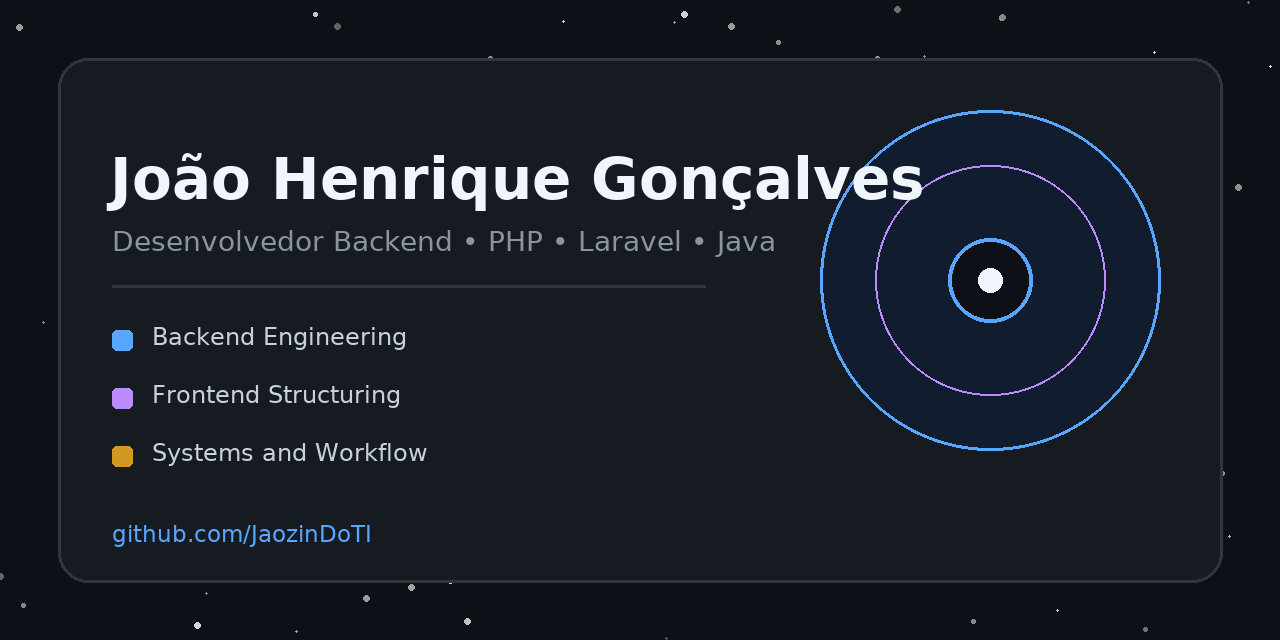
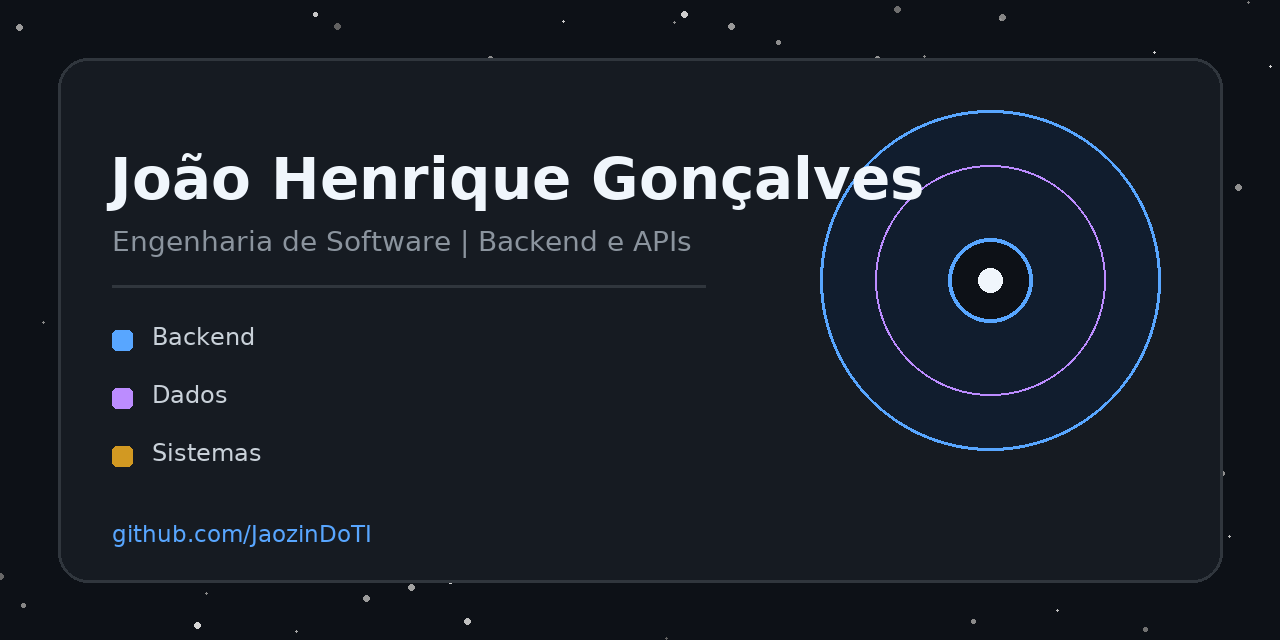
Align profile visuals with software engineering focus

diff --git a/generator/templates/impact_card.py b/generator/templates/impact_card.py
@@ -1,4 +1,4 @@
-"""Recruiter-facing proof of operational, automation, scale and quality impact."""
+"""Recruiter-facing proof of processing, scale and quality impact."""
 
 from generator.templates.cosmic_background import render as render_cosmic_background
 from generator.utils import esc
@@ -11,9 +11,9 @@ def _metric(items: list, index: int, fallback: dict) -> dict:
 
 
 def render(items: list, theme: dict) -> str:
-    business = _metric(items, 0, {"value": "~4K", "label": "RECORDS VALIDATED", "detail": "records evaluated per run"})
-    automation = _metric(items, 1, {"value": "~99.997%", "label": "PROCESSING TIME REDUCTION", "detail": "~192h → ~24s · ~28,800× faster"})
-    scale = _metric(items, 2, {"value": "~24s", "label": "AUTOMATED ANALYSIS", "detail": "~4K records • 108 fields • ~53 business rules"})
+    volume = _metric(items, 0, {"value": "~4K", "label": "RECORDS VALIDATED", "detail": "records evaluated per run"})
+    processing = _metric(items, 1, {"value": "~99.997%", "label": "PROCESSING TIME REDUCTION", "detail": "~192h → ~24s · ~28,800× faster"})
+    scale = _metric(items, 2, {"value": "~24s", "label": "DATA VALIDATION", "detail": "~4K records • 108 fields • ~53 business rules"})
     quality = _metric(items, 3, {"value": "+3.03%", "label": "MORE ISSUES DETECTED", "detail": "higher analysis effectiveness"})
     cyan, violet, amber = theme["synapse_cyan"], theme["dendrite_violet"], theme["axon_amber"]
     cosmic = render_cosmic_background("impact-proof", WIDTH, HEIGHT, theme, preset="card")
@@ -22,7 +22,7 @@ def render(items: list, theme: dict) -> str:
   <defs>
 {cosmic.defs}
     <radialGradient id="value-halo"><stop stop-color="{cyan}" stop-opacity=".20"/><stop offset="1" stop-color="{cyan}" stop-opacity="0"/></radialGradient>
-    <linearGradient id="automation-bar" x1="0" y1="0" x2="1" y2="0"><stop stop-color="{violet}" stop-opacity=".12"/><stop offset="1" stop-color="{cyan}" stop-opacity=".035"/></linearGradient>
+    <linearGradient id="processing-bar" x1="0" y1="0" x2="1" y2="0"><stop stop-color="{violet}" stop-opacity=".12"/><stop offset="1" stop-color="{cyan}" stop-opacity=".035"/></linearGradient>
     <style>
       .impact-enter {{ opacity:0; animation:impact-enter .8s ease-out var(--impact-delay,0s) forwards; }}
       .impact-breathe {{ animation:impact-breathe 5s ease-in-out infinite; transform-box:fill-box; transform-origin:center; }}
@@ -37,7 +37,7 @@ def render(items: list, theme: dict) -> str:
   <g data-svg-layer="content">
     <line x1="425" y1="0" x2="425" y2="17" stroke="{cyan}" opacity=".42"/>
     <text x="35" y="36" fill="{theme['text_faint']}" font-size="10" font-family="monospace" letter-spacing="3">PROOF OF IMPACT</text>
-    <text x="815" y="36" text-anchor="end" fill="{theme['text_faint']}" font-size="8" font-family="monospace">SOFTWARE ENGINEERING • AUTOMATION • DATA</text>
+    <text x="815" y="36" text-anchor="end" fill="{theme['text_faint']}" font-size="8" font-family="monospace">SOFTWARE ENGINEERING • PERFORMANCE • DATA QUALITY</text>
     <line x1="35" y1="52" x2="815" y2="52" stroke="{theme['star_dust']}" opacity=".5"/>
 
     <g class="impact-enter" style="--impact-delay:.08s">
@@ -45,7 +45,7 @@ def render(items: list, theme: dict) -> str:
       <circle cx="188" cy="169" r="91" fill="url(#value-halo)" class="impact-breathe"/>
       <circle cx="188" cy="169" r="68" fill="none" stroke="{cyan}" stroke-width=".8" stroke-dasharray="3 9" opacity=".36" class="impact-orbit"/>
       <text x="58" y="94" fill="{cyan}" font-size="8" font-weight="bold" font-family="monospace" letter-spacing="1.2">PRODUCTION DATA VALIDATION</text>
-      <text x="177" y="158" text-anchor="middle" fill="{theme['text_bright']}" font-size="39" font-weight="bold" font-family="sans-serif">{esc(business['value'])}</text>
+      <text x="177" y="158" text-anchor="middle" fill="{theme['text_bright']}" font-size="39" font-weight="bold" font-family="sans-serif">{esc(volume['value'])}</text>
       <text x="177" y="183" text-anchor="middle" fill="{cyan}" font-size="9" font-weight="bold" font-family="monospace">RECORDS</text>
       <text x="177" y="199" text-anchor="middle" fill="{cyan}" font-size="9" font-weight="bold" font-family="monospace">VALIDATED</text>
       <text x="177" y="235" text-anchor="middle" fill="{theme['text_dim']}" font-size="9" font-family="sans-serif">108 fields evaluated per record</text>
@@ -53,9 +53,9 @@ def render(items: list, theme: dict) -> str:
     </g>
 
     <g class="impact-enter" style="--impact-delay:.20s">
-      <rect x="340" y="70" width="475" height="91" rx="14" fill="url(#automation-bar)" stroke="{violet}" stroke-opacity=".30"/>
-      <text x="365" y="92" fill="{violet}" font-size="8" font-weight="bold" font-family="monospace" letter-spacing="1">AUTOMATION</text>
-      <text x="365" y="132" fill="{theme['text_bright']}" font-size="29" font-weight="bold" font-family="sans-serif">{esc(automation['value'])}</text>
+      <rect x="340" y="70" width="475" height="91" rx="14" fill="url(#processing-bar)" stroke="{violet}" stroke-opacity=".30"/>
+      <text x="365" y="92" fill="{violet}" font-size="8" font-weight="bold" font-family="monospace" letter-spacing="1">PERFORMANCE</text>
+      <text x="365" y="132" fill="{theme['text_bright']}" font-size="29" font-weight="bold" font-family="sans-serif">{esc(processing['value'])}</text>
       <text x="365" y="149" fill="{violet}" font-size="8" font-weight="bold" font-family="monospace">PROCESSING TIME REDUCTION</text>
       <line x1="535" y1="86" x2="535" y2="145" stroke="{theme['star_dust']}"/>
       <text x="560" y="111" fill="{theme['text_bright']}" font-size="17" font-weight="bold" font-family="sans-serif">~192 HOURS → ~24 SECONDS</text>
@@ -66,7 +66,7 @@ def render(items: list, theme: dict) -> str:
       <rect x="340" y="176" width="294" height="96" rx="14" fill="{theme['void']}" stroke="{amber}" stroke-opacity=".28"/>
       <text x="365" y="199" fill="{amber}" font-size="8" font-weight="bold" font-family="monospace" letter-spacing="1">SCALE + COMPLEXITY</text>
       <text x="365" y="239" fill="{theme['text_bright']}" font-size="31" font-weight="bold" font-family="sans-serif">{esc(scale['value'])}</text>
-      <text x="452" y="222" fill="{amber}" font-size="9" font-weight="bold" font-family="monospace">AUTOMATED ANALYSIS</text>
+      <text x="452" y="222" fill="{amber}" font-size="9" font-weight="bold" font-family="monospace">DATA VALIDATION</text>
       <text x="452" y="240" fill="{theme['text_dim']}" font-size="10" font-family="monospace">~4K RECORDS • 108 FIELDS</text>
       <text x="452" y="257" fill="{theme['text_dim']}" font-size="10" font-family="monospace">~53 BUSINESS RULES / ANALYSIS</text>
     </g>

diff --git a/generator/templates/galaxy_header.py b/generator/templates/galaxy_header.py
@@ -19,7 +19,6 @@ def _node(x: int, y: int, label: str, color: str, delay: float, anchor: str = "m
 def render(config: dict, theme: dict, galaxy_arms: list, projects: list) -> str:
     profile = config.get("profile", {})
     name = profile.get("name", config.get("username", "Developer"))
-    tagline = profile.get("tagline", "Backend Developer | Data & Automation")
     cosmic = render_cosmic_background(config.get("username", "profile"), WIDTH, HEIGHT, theme, preset="hero")
     cyan = theme["synapse_cyan"]
     violet = theme["dendrite_violet"]
@@ -102,25 +101,25 @@ def render(config: dict, theme: dict, galaxy_arms: list, projects: list) -> str:
       <rect x="145" y="106" width="44" height="2" rx="1" fill="{violet}" opacity="0.75"/>
     </g>
     <g class="hero-reveal" style="--hero-delay:.3s">
-      <text x="48" y="139" fill="{theme['text_dim']}" font-size="14" font-family="sans-serif">Building production systems with backend, data and automation.</text>
+      <text x="48" y="139" fill="{theme['text_dim']}" font-size="14" font-family="sans-serif">Backend systems for state public administration.</text>
       <text x="48" y="160" fill="{theme['text_faint']}" font-size="11" font-family="monospace">TypeScript • Node.js • Fastify • SQL • PostgreSQL • REST APIs</text>
     </g>
     <g class="hero-reveal" style="--hero-delay:.42s">
       <rect x="48" y="190" width="146" height="29" rx="14" fill="{cyan}" opacity="0.09" stroke="{cyan}" stroke-opacity="0.32"/>
-      <text x="121" y="208" text-anchor="middle" fill="{cyan}" font-size="9" font-weight="bold" font-family="monospace">PRODUCTION SYSTEMS</text>
+      <text x="121" y="208" text-anchor="middle" fill="{cyan}" font-size="9" font-weight="bold" font-family="monospace">SOFTWARE ENGINEERING</text>
       <rect x="204" y="190" width="138" height="29" rx="14" fill="{violet}" opacity="0.08" stroke="{violet}" stroke-opacity="0.28"/>
-      <text x="273" y="208" text-anchor="middle" fill="{violet}" font-size="9" font-weight="bold" font-family="monospace">DATA-INTENSIVE</text>
+      <text x="273" y="208" text-anchor="middle" fill="{violet}" font-size="9" font-weight="bold" font-family="monospace">ARCHITECTURE</text>
       <rect x="352" y="190" width="112" height="29" rx="14" fill="{amber}" opacity="0.08" stroke="{amber}" stroke-opacity="0.28"/>
-      <text x="408" y="208" text-anchor="middle" fill="{amber}" font-size="9" font-weight="bold" font-family="monospace">AUTOMATION</text>
+      <text x="408" y="208" text-anchor="middle" fill="{amber}" font-size="9" font-weight="bold" font-family="monospace">API INTEGRATION</text>
     </g>
     <g class="hero-reveal" style="--hero-delay:.55s">
       <text x="48" y="264" fill="{theme['text_bright']}" font-size="21" font-weight="bold" font-family="sans-serif">~192h → ~24s</text>
-      <text x="48" y="282" fill="{cyan}" font-size="9" font-family="monospace" letter-spacing="1.1">AUTOMATED PROCESSING</text>
+      <text x="48" y="282" fill="{cyan}" font-size="9" font-family="monospace" letter-spacing="1.1">PROCESSING TIME</text>
       <line x1="205" y1="250" x2="205" y2="286" stroke="{theme['star_dust']}"/>
       <text x="230" y="264" fill="{theme['text_bright']}" font-size="21" font-weight="bold" font-family="sans-serif">~4K</text>
       <text x="230" y="282" fill="{violet}" font-size="8" font-family="monospace" letter-spacing="1">RECORDS VALIDATED</text>
     </g>
-    <text x="48" y="320" fill="{theme['text_faint']}" font-size="8" font-family="monospace" letter-spacing="1.5">FLORIANÓPOLIS, BRAZIL  //  SYSTEMS • DATA • AUTOMATION</text>
+    <text x="48" y="320" fill="{theme['text_faint']}" font-size="8" font-family="monospace" letter-spacing="1.5">FLORIANÓPOLIS, BRAZIL  //  BACKEND • APIS • DATA</text>
     <line x1="425" y1="326" x2="425" y2="340" stroke="{cyan}" opacity="0.45"/>
     <circle cx="425" cy="326" r="2" fill="{cyan}" opacity="0.8"/>
   </g>

diff --git a/generator/templates/case_study.py b/generator/templates/case_study.py
@@ -1,4 +1,4 @@
-"""Production case: from manual operations to automated software."""
+"""Production case: traceable validation of complex data."""
 
 from generator.templates.cosmic_background import render as render_cosmic_background
 from generator.utils import esc
@@ -34,7 +34,7 @@ def render(config: dict, theme: dict) -> str:
 
     <g>
       <text x="70" y="91" fill="{amber}" font-size="9" font-weight="bold" font-family="monospace" letter-spacing="1">{esc(config.get('problem_title', 'PROBLEM'))}</text>
-      <text x="70" y="119" fill="{theme['text_bright']}" font-size="15" font-weight="bold" font-family="sans-serif">Manual analysis</text>
+      <text x="70" y="119" fill="{theme['text_bright']}" font-size="15" font-weight="bold" font-family="sans-serif">Data validation</text>
       <text x="70" y="140" fill="{theme['text_dim']}" font-size="11" font-family="sans-serif">High data volume</text>
       <text x="70" y="158" fill="{theme['text_dim']}" font-size="11" font-family="sans-serif">Complex business rules</text>
       <text x="70" y="176" fill="{theme['text_dim']}" font-size="11" font-family="sans-serif">Repetitive validation</text>
@@ -62,14 +62,14 @@ def render(config: dict, theme: dict) -> str:
       <rect x="583" y="76" width="210" height="118" rx="12" fill="{cyan}" opacity="0.035" stroke="{cyan}" stroke-opacity="0.24"/>
       <text x="603" y="91" fill="{cyan}" font-size="9" font-weight="bold" font-family="monospace" letter-spacing="1">{esc(config.get('outcome_title', 'OUTCOME'))}</text>
       <text x="603" y="119" fill="{theme['text_bright']}" font-size="15" font-weight="bold" font-family="sans-serif">Production software</text>
-      <text x="603" y="140" fill="{theme['text_dim']}" font-size="11" font-family="sans-serif">Automated workflow</text>
+      <text x="603" y="140" fill="{theme['text_dim']}" font-size="11" font-family="sans-serif">Batch processing</text>
       <text x="603" y="158" fill="{theme['text_dim']}" font-size="11" font-family="sans-serif">Traceable execution</text>
       <text x="603" y="176" fill="{theme['text_dim']}" font-size="11" font-family="sans-serif">Consistent results</text>
     </g>
 
     <rect x="57" y="211" width="736" height="34" rx="17" fill="{theme['void']}" stroke="{theme['star_dust']}"/>
     <text x="77" y="232" fill="{violet}" font-size="8" font-weight="bold" font-family="monospace">TECHNICAL OWNERSHIP</text>
-    <text x="220" y="232" fill="{theme['text_dim']}" font-size="9" font-family="monospace">ARCHITECTURE • BACKEND • DATA • INTEGRATIONS • AUTOMATION</text>
+    <text x="220" y="232" fill="{theme['text_dim']}" font-size="9" font-family="monospace">ARCHITECTURE • BACKEND • DATA • INTEGRATIONS</text>
     <line x1="425" y1="253" x2="425" y2="270" stroke="{violet}" opacity="0.4"/>
   </g>
 </svg>"""

diff --git a/generator/templates/projects_constellation.py b/generator/templates/projects_constellation.py
@@ -64,7 +64,7 @@ def render(projects: list, galaxy_arms: list, theme: dict) -> str:
     <g class="product-enter" style="--product-delay:.12s">
       <rect x="35" y="70" width="500" height="210" rx="14" fill="url(#featured-glow)" stroke="{featured_color}" stroke-opacity="0.38"/>
       <rect x="35" y="70" width="5" height="210" rx="2" fill="{featured_color}" opacity="0.55"/>
-      <text x="65" y="97" fill="{featured_color}" font-size="8" font-weight="bold" font-family="monospace" letter-spacing="1.5">FLAGSHIP • PRODUCTION AUTOMATION</text>
+      <text x="65" y="97" fill="{featured_color}" font-size="8" font-weight="bold" font-family="monospace" letter-spacing="1.5">FLAGSHIP • PRODUCTION SYSTEM</text>
       <text x="65" y="130" fill="{theme['text_bright']}" font-size="25" font-weight="bold" font-family="sans-serif">{esc(featured_name)}</text>
       <text x="65" y="151" fill="{theme['text_dim']}" font-size="11" font-family="sans-serif">{esc(featured.get('description', ''))}</text>
 

diff --git a/generator/social_preview.py b/generator/social_preview.py
@@ -51,7 +51,7 @@ def render_social_preview(config: dict, output_path: str | Path) -> None:
     draw.ellipse((948, 238, 1032, 322), fill="#0d1117", outline=accent, width=4)
     draw.ellipse((978, 268, 1002, 292), fill="#f0f6fc")
 
-    draw.text((110, 145), name, font=_font(58, bold=True), fill="#f0f6fc")
+    draw.text((110, 145), name, font=_font(48, bold=True), fill="#f0f6fc")
     draw.text((112, 225), tagline, font=_font(28), fill="#8b949e")
     draw.line((112, 286, 705, 286), fill="#30363d", width=3)
 

diff --git a/README.md b/README.md
@@ -1,3 +1,7 @@
+<div align="center">
+  <img src="./assets/generated/galaxy-header-v3.svg" width="850" alt="João Henrique Gonçalves, engenharia de software, arquitetura backend e integração de APIs para a administração pública estadual"/>
+</div>
+
 # João Henrique Gonçalves
 
 **Engenharia de software · Backend · Sistemas para a administração pública estadual**
@@ -10,7 +14,16 @@ Atuo no desenvolvimento de sistemas que integram serviços e aplicam regras de n
 
 ## Projetos
 
+- **Galaxy Profile** — este repositório. O cliente em Python consulta a API do GitHub via GraphQL quando há token e usa REST para coletar métricas públicas. O gerador combina esses dados com a configuração do perfil para produzir os cartões em SVG.
+
 - **PRISMA** — sistema em produção para validar cerca de 4 mil registros em 108 campos, com aproximadamente 53 regras de negócio. O processamento passou de cerca de 192 horas para 24 segundos.
 - **CAMUP** — evolução do backend de um sistema web colaborativo em Laravel, com entrega de funcionalidades, refatoração e melhorias de desempenho. [Repositório do CAMUP](https://github.com/JaozinDoTI/camup-system)
+
+<div align="center">
+  <img src="./assets/generated/impact-card-v3.svg" width="850" alt="PRISMA: cerca de 4 mil registros validados, 108 campos e 53 regras de negócio. Tempo de processamento de 192 horas para 24 segundos."/>
+  <img src="./assets/generated/expertise-card.svg" width="850" alt="Tecnologias de backend, APIs REST e bancos de dados"/>
+  <img src="./assets/generated/case-study.svg" width="850" alt="PRISMA: motor de processamento com validação de dados e execução rastreável"/>
+  <img src="./assets/generated/projects-constellation-v3.svg" width="850" alt="Projetos em destaque: PRISMA e CAMUP"/>
+</div>
 
 Florianópolis, SC · [LinkedIn](https://www.linkedin.com/in/joaohenrique-goncalves/)

diff --git a/README.profile.md b/README.profile.md
@@ -1,3 +1,7 @@
+<div align="center">
+  <img src="./assets/generated/galaxy-header-v3.svg" width="850" alt="João Henrique Gonçalves, engenharia de software, arquitetura backend e integração de APIs para a administração pública estadual"/>
+</div>
+
 # João Henrique Gonçalves
 
 **Engenharia de software · Backend · Sistemas para a administração pública estadual**
@@ -10,7 +14,16 @@ Atuo no desenvolvimento de sistemas que integram serviços e aplicam regras de n
 
 ## Projetos
 
+- **Galaxy Profile** — este repositório. O cliente em Python consulta a API do GitHub via GraphQL quando há token e usa REST para coletar métricas públicas. O gerador combina esses dados com a configuração do perfil para produzir os cartões em SVG.
+
 - **PRISMA** — sistema em produção para validar cerca de 4 mil registros em 108 campos, com aproximadamente 53 regras de negócio. O processamento passou de cerca de 192 horas para 24 segundos.
 - **CAMUP** — evolução do backend de um sistema web colaborativo em Laravel, com entrega de funcionalidades, refatoração e melhorias de desempenho. [Repositório do CAMUP](https://github.com/JaozinDoTI/camup-system)
+
+<div align="center">
+  <img src="./assets/generated/impact-card-v3.svg" width="850" alt="PRISMA: cerca de 4 mil registros validados, 108 campos e 53 regras de negócio. Tempo de processamento de 192 horas para 24 segundos."/>
+  <img src="./assets/generated/expertise-card.svg" width="850" alt="Tecnologias de backend, APIs REST e bancos de dados"/>
+  <img src="./assets/generated/case-study.svg" width="850" alt="PRISMA: motor de processamento com validação de dados e execução rastreável"/>
+  <img src="./assets/generated/projects-constellation-v3.svg" width="850" alt="Projetos em destaque: PRISMA e CAMUP"/>
+</div>
 
 Florianópolis, SC · [LinkedIn](https://www.linkedin.com/in/joaohenrique-goncalves/)
